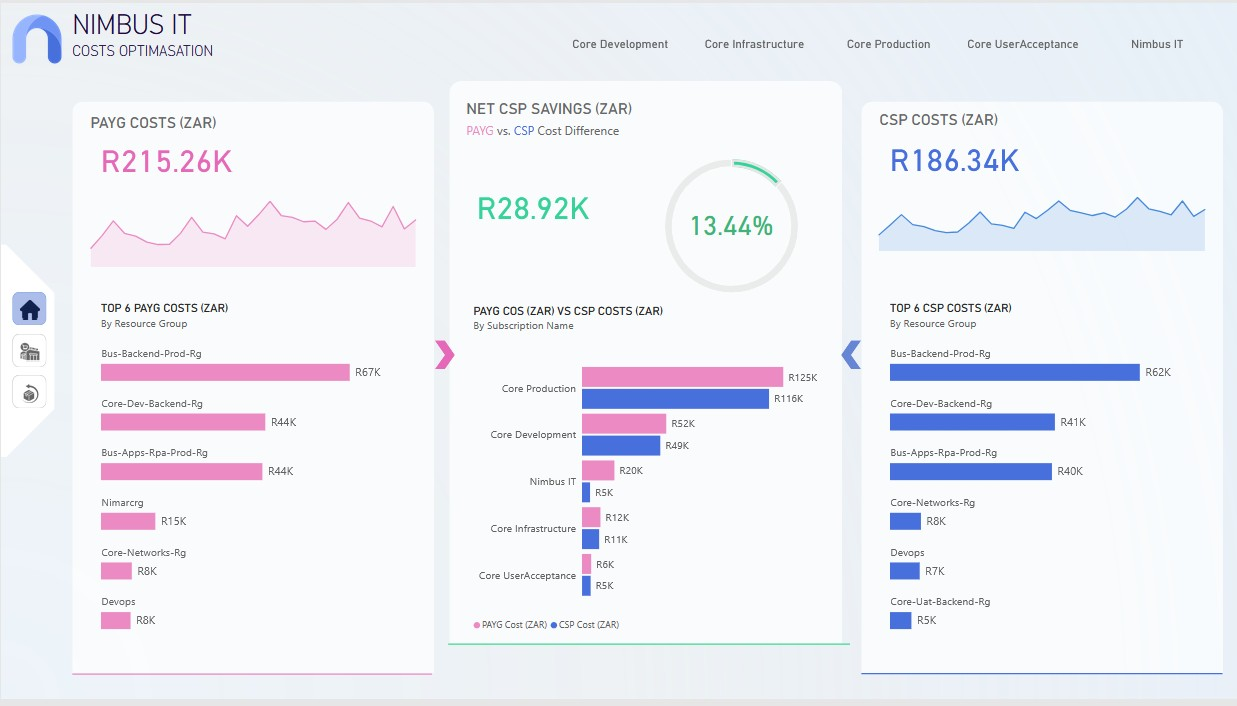
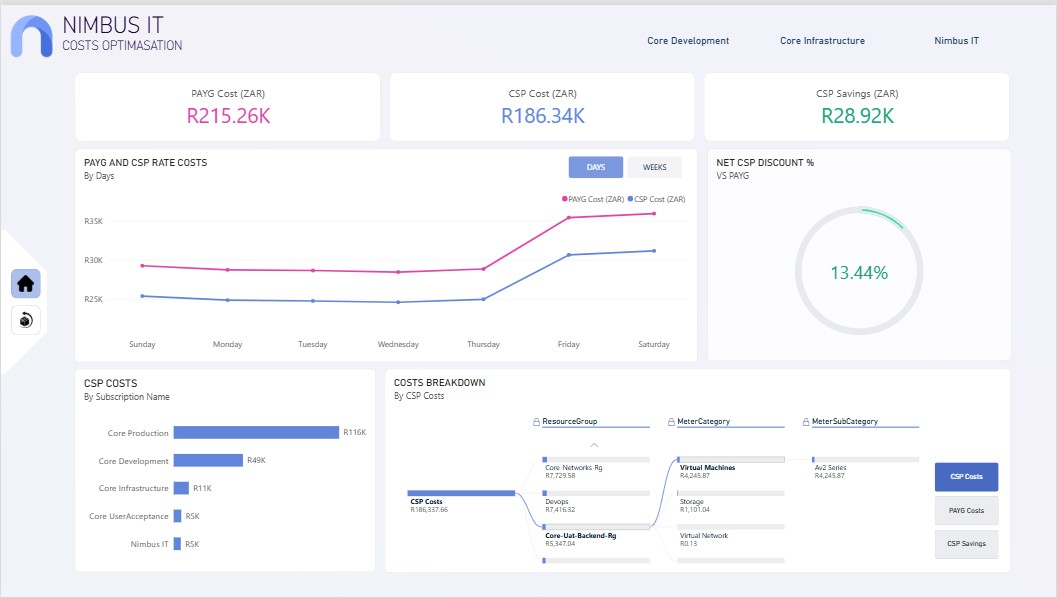
Updated FIN

diff --git a/index.html b/index.html
@@ -584,7 +584,7 @@
             >
               <!-- 1. FinOps Analytics -->
               <a
-                href="https://app.powerbi.com/view?r=eyJrIjoiZTFiMzAwZjUtNmQ3OS00NDU5LTk3MjgtZWViNjA1NDdjMzM1IiwidCI6IjlmMzZmNzhiLTZjYWItNGVjZi04YTE0LWM1YTc4YjZkMTQyMyJ9"
+                href="https://app.powerbi.com/view?r=eyJrIjoiNDViYjdkZjQtMDA3OS00M2NhLTgzODUtYzU3ZjlhOWQyMWVmIiwidCI6IjlmMzZmNzhiLTZjYWItNGVjZi04YTE0LWM1YTc4YjZkMTQyMyJ9"
                 class="mx-auto transform transition-all hover:scale-105 md:mx-0"
                 target="_blank"
                 rel="noopener noreferrer"
